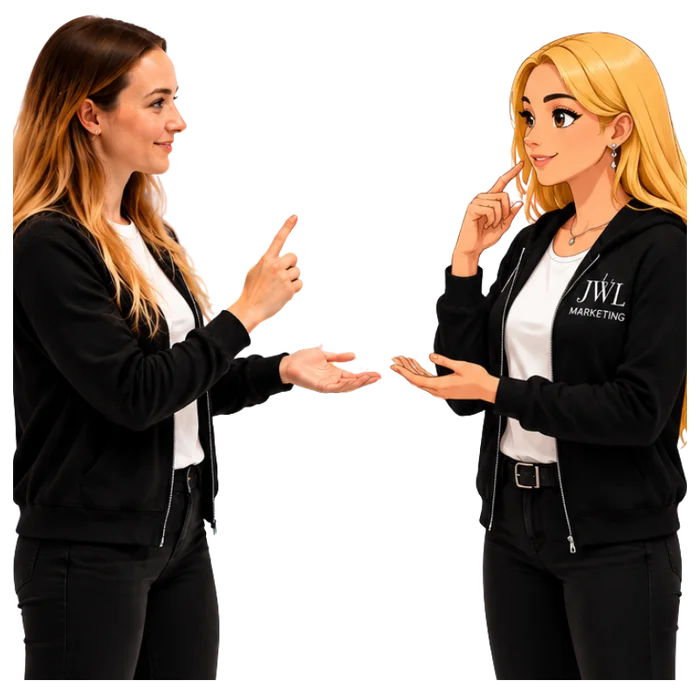
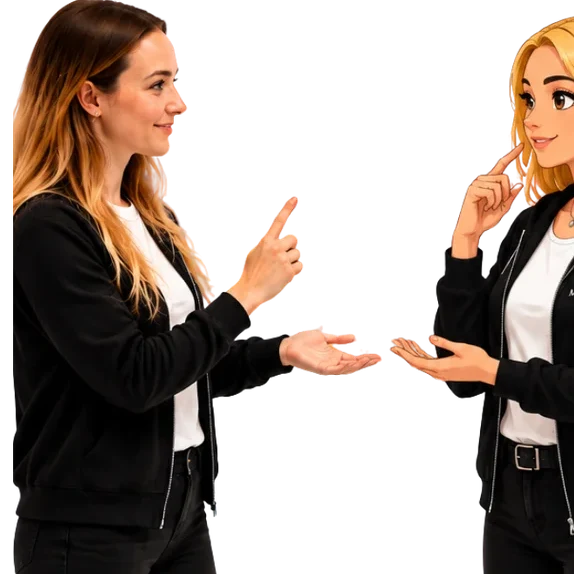
Recadre les 4 photos accompagnement (moins de vide, plus centré sur la personne) + effet hover 'se lève' sur les cartes La méthode (FR+EN)
Claude-Session: https://claude.ai/code/session_01B7YW2p47fQX3eVi6XSYZ1X

diff --git a/src/app/page.tsx b/src/app/page.tsx
@@ -189,7 +189,7 @@ export default function Home() {
         <SectionHeading kicker="La méthode" title="JWL MARKETING" />
         <EscalierReveal
           className="mx-auto grid max-w-[1200px] gap-6 md:grid-cols-3"
-          itemClassName="flex flex-col overflow-hidden rounded-2xl bg-black text-white"
+          itemClassName="flex flex-col overflow-hidden rounded-2xl bg-black text-white transition-all duration-300 hover:-translate-y-2 hover:shadow-2xl"
         >
           {METHODE_STEPS.map((step, i) => (
             <Fragment key={step.title}>

diff --git a/src/app/en/page.tsx b/src/app/en/page.tsx
@@ -202,7 +202,7 @@ export default function Home() {
         <SectionHeading kicker="The method" title="JWL MARKETING" />
         <EscalierReveal
           className="mx-auto grid max-w-[1200px] gap-6 md:grid-cols-3"
-          itemClassName="flex flex-col overflow-hidden rounded-2xl bg-black text-white"
+          itemClassName="flex flex-col overflow-hidden rounded-2xl bg-black text-white transition-all duration-300 hover:-translate-y-2 hover:shadow-2xl"
         >
           {METHODE_STEPS.map((step, i) => (
             <Fragment key={step.title}>
